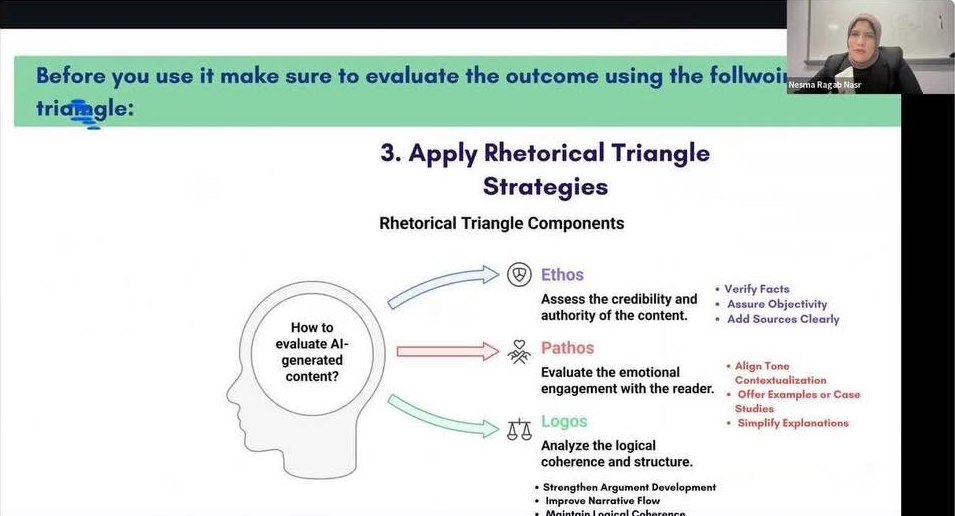
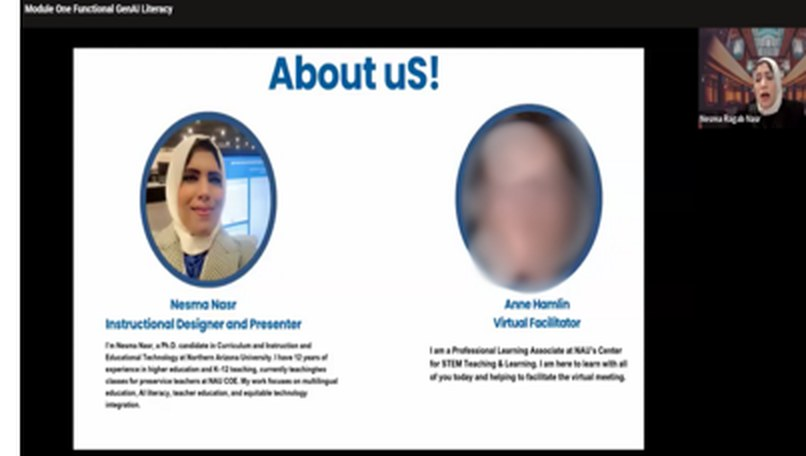
Replace workshop photos and list all workshops with full details
Claude-Session: https://claude.ai/code/session_01E94J13JhVndpWbtLHphchU

diff --git a/design.html b/design.html
@@ -12,7 +12,7 @@
   <link rel="preconnect" href="https://fonts.googleapis.com">
   <link rel="preconnect" href="https://fonts.gstatic.com" crossorigin>
   <link href="https://fonts.googleapis.com/css2?family=Atkinson+Hyperlegible:ital,wght@0,400;0,700;1,400&family=Newsreader:ital,opsz,wght@0,6..72,400;0,6..72,500;0,6..72,600;1,6..72,400&display=swap" rel="stylesheet">
-  <link rel="stylesheet" href="css/style.css?v=20261111d">
+  <link rel="stylesheet" href="css/style.css?v=20261111e">
 </head>
 <body>
   <a class="skip-link" href="#main">Skip to content</a>
@@ -74,8 +74,8 @@
         </ol>
         <!-- PHOTO SPACES: upload pictures with these exact file names. Empty spaces stay hidden. -->
         <div class="photo-row">
-          <figure class="photo"><img src="images/highlights/teachers-loop-2025-2.jpg" alt="Slide from a Teachers in the Loop, November 2025: generative AI and Vygotsky’s zone of proximal development" loading="lazy"><figcaption>Teachers in the Loop, November 2025: generative AI and Vygotsky’s zone of proximal development</figcaption></figure>
-          <figure class="photo"><img src="images/highlights/teachers-loop-2025-3.jpg" alt="Slide from a Teachers in the Loop, November 2025: five strategies for assessing learning with AI, ending with teacher oversight" loading="lazy"><figcaption>Teachers in the Loop, November 2025: five strategies for assessing learning with AI, ending with teacher oversight</figcaption></figure>
+          <figure class="photo"><img src="images/highlights/teachers-loop-2025-2.jpg" alt="Teachers in the Loop title slide. Workshop Two, November 5, 2025: Applying Critical Thinking and Effective Prompt Engineering for Ethical AI Use" loading="lazy"><figcaption>Workshop Two, November 5, 2025: Applying Critical Thinking and Effective Prompt Engineering for Ethical AI Use</figcaption></figure>
+          <figure class="photo"><img src="images/highlights/teachers-loop-2025-3.jpg" alt="Teachers in the Loop title slide. Workshop Three, November 12, 2025: Theory-Informed Teaching and Learning for Effective, Balanced Human–AI Classrooms" loading="lazy"><figcaption>Workshop Three, November 12, 2025: Theory-Informed Teaching and Learning for Effective, Balanced Human–AI Classrooms</figcaption></figure>
         </div>
         <!-- The video player below shows the whole YouTube playlist. -->
         <div class="video">
@@ -101,18 +101,25 @@
       </details>
 
       <details class="acc" id="workshops" data-reveal>
-        <summary><h2>Workshops and invited sessions</h2></summary>
+        <summary><h2>Workshops: designing and presenting</h2></summary>
         <div class="acc-body">
+        <h3>2026</h3>
         <ul class="pubs">
-          <li><em>AI for STEM education: AI as a collaborative partner, innovation, and subject of inquiry and critique.</em> IGNITE-STEM Co-Design Series, Tuba City Unified School District, Tuba City, AZ. October 2026. <a href="highlights.html#ignite-2026">Photos</a></li>
-          <li><em>From awareness to action: The universal bridge for critical and accessible AI implementation</em> (with Dolowitz, Berry, and Reese). AECT International Convention, Chicago, IL. November 2026. <a href="highlights.html#aect-2026">Photos</a></li>
-          <li><em>From passive users to critical thinkers: The practical inquiry cognitive presence framework for ethical AI use</em> (invited). Reimagining PedAIgogy Incubator Series, online. May 2026.</li>
-          <li><em>GenAI for enhancing lesson planning and language activities using rhetorical literacy.</em> AZTESOL Virtual Professional Development Series. December 2025.</li>
-          <li><em>Teachers in the Loop</em> four-session series. NAU STEM Department and AZTESOL, Flagstaff, AZ. October–November 2025. <a href="https://youtube.com/playlist?list=PLr469VyPQPz77XELISCDWrb53QFtSRKE9">Recordings</a></li>
-          <li><em>Think like a scientist: Critical thinking in the age of AI</em> (invited). BASIS Flagstaff, fourth-grade science. May 2025.</li>
-          <li><em>AI in the classroom: Tools and theories.</em> AECT Learner Engagement Division, online. May 2025.</li>
-          <li><em>Work smarter, not harder with AI literacy.</em> Lapan Forum, NAU College of Education. April 2025.</li>
-          <li>Student keynote speaker (invited by the Vice Provost for Global Affairs). 2024 Internationally Connected Faculty Reception, Northern Arizona University. September 24, 2024. <a href="highlights.html#keynote-2024">Photos</a></li>
+          <li><span class="me">Nasr, N. R.</span> (2026, October 17). <em>AI for STEM education: AI as a collaborative partner, innovation, and subject of inquiry and critique.</em> Workshop facilitator and presenter, IGNITE-STEM Co-Design Series, Tuba City Unified School District Gifted Education Program, Tuba City, Arizona. Funded by the National Science Foundation, FINDERS Foundry Planning Grant (Award #2627892; PI: Anne K. Hamlin; Co-PI: Sean M. Ryan), Northern Arizona University. <a href="highlights.html#ignite-2026">Photos</a></li>
+          <li>Dolowitz, A., Berry, C., <span class="me">Nasr, N. R.</span>, &amp; Reese, R. (2026, November 3). <em>From awareness to action: The universal bridge for critical and accessible AI implementation</em> [Workshop]. AECT International Convention, Chicago, IL. <a href="highlights.html#aect-2026">Photos</a></li>
+          <li><span class="me">Nasr, N. R.</span> (2026, May 12). <em>From passive users to critical thinkers: The Practical Inquiry cognitive presence framework for ethical AI use</em> [Invited presentation]. Reimagining PedAIgogy Incubator Series: Research, Policy &amp; Frameworks Show &amp; Share, virtual.</li>
+        </ul>
+        <h3 id="teachers-in-the-loop-list">2025: Teachers in the Loop series (educators in STEM, language education, and beyond)</h3>
+        <ul class="pubs">
+          <li><span class="me">Nasr, N. R.</span> (2025, December 17). <em>GenAI for enhancing lesson planning and language activities using rhetorical literacy</em> [Workshop]. AZTESOL Virtual Professional Development Series.</li>
+          <li><span class="me">Nasr, N. R.</span> (2025, October 29 – November 19). <em>Teachers in the Loop: GenAI literacy and education training series for educators. Empowering teachers’ AI literacy for ethical, responsible, and effective AI use</em> [Workshop series]. NAU STEM Department and AZTESOL, Flagstaff, AZ. <a href="highlights.html#teachers-loop-2025">Photos</a> · <a href="https://youtube.com/playlist?list=PLr469VyPQPz77XELISCDWrb53QFtSRKE9">Recordings</a></li>
+          <li><span class="me">Nasr, N. R.</span> (2025, October 29). <em>Identifying what generative AI is, its possibilities, and its limitations</em> [Workshop]. Teachers in the Loop Series, NAU STEM Department and AZTESOL.</li>
+          <li><span class="me">Nasr, N. R.</span> (2025, November 5). <em>Applying critical thinking and effective prompt engineering for ethical AI use: A practical workshop.</em> Teachers in the Loop Series, NAU STEM Department and AZTESOL.</li>
+          <li><span class="me">Nasr, N. R.</span> (2025, November 12). <em>Theory-informed teaching and learning for effective, balanced human–AI classrooms</em> [Workshop]. Teachers in the Loop Series, NAU STEM Department and AZTESOL.</li>
+          <li><span class="me">Nasr, N. R.</span> (2025, November 19). <em>Teaching effectively in AI-enhanced classrooms: Implementation, student guidance, inclusive support, and authentic assessment</em> [Workshop]. Teachers in the Loop Series, NAU STEM Department and AZTESOL.</li>
+          <li><span class="me">Nasr, N. R.</span> (2025, May 14). <em>Think like a scientist: Critical thinking in the age of AI</em> [Invited K–4 classroom workshop]. BASIS Flagstaff, 4th Grade Science Class, Flagstaff, AZ.</li>
+          <li><span class="me">Nasr, N. R.</span> (2025, May 8). <em>AI in the classroom: Tools and theories</em> [Workshop]. AECT Learner Engagement Division, virtual.</li>
+          <li><span class="me">Nasr, N. R.</span> (2025, April 5). <em>Work smarter, not harder with AI literacy</em> [Workshop]. Lapan Forum Conference, NAU College of Education, Flagstaff, AZ.</li>
         </ul>
       </div>
       </details>
@@ -129,7 +136,7 @@
       <span>Last updated November 2026</span>
     </div>
   </footer>
-  <script src="js/site.js?v=20261111d"></script>
-  <script src="js/assistant.js?v=20261111d"></script>
+  <script src="js/site.js?v=20261111e"></script>
+  <script src="js/assistant.js?v=20261111e"></script>
 </body>
 </html>

diff --git a/highlights.html b/highlights.html
@@ -12,7 +12,7 @@
   <link rel="preconnect" href="https://fonts.googleapis.com">
   <link rel="preconnect" href="https://fonts.gstatic.com" crossorigin>
   <link href="https://fonts.googleapis.com/css2?family=Atkinson+Hyperlegible:ital,wght@0,400;0,700;1,400&family=Newsreader:ital,opsz,wght@0,6..72,400;0,6..72,500;0,6..72,600;1,6..72,400&display=swap" rel="stylesheet">
-  <link rel="stylesheet" href="css/style.css?v=20261111d">
+  <link rel="stylesheet" href="css/style.css?v=20261111e">
 </head>
 <body>
   <a class="skip-link" href="#main">Skip to content</a>
@@ -235,7 +235,7 @@
             <figure class="photo"><img src="images/highlights/ignite-2026-2.jpg" alt="Educators at the IGNITE-STEM co-design workshop in Tuba City" loading="lazy"><figcaption>Educators at the IGNITE-STEM co-design workshop in Tuba City</figcaption></figure>
             <figure class="photo"><img src="images/highlights/ignite-2026-3.jpg" alt="Educators at the IGNITE-STEM co-design workshop in Tuba City" loading="lazy"><figcaption>Educators at the IGNITE-STEM co-design workshop in Tuba City</figcaption></figure>
           </div>
-          <time datetime="2026-10">October 2026, Tuba City, AZ</time>
+          <time datetime="2026-10-17">October 17, 2026, Tuba City, AZ</time>
           <h3>IGNITE-STEM co-design workshop</h3>
           <p>Led the AI for STEM Education workshop in the IGNITE-STEM co-design series with Tuba City Unified School District, funded by an NSF FINDERS Foundry planning grant. Educators and families told me the work approached AI with respect for their culture and traditions.</p>
           <p class="links"><a href="research.html#grants">About the grant</a><!-- To add a link: <a href="https://...">Link text</a> --></p>
@@ -284,10 +284,12 @@
         <h2 class="group-title">Workshops and teaching</h2>
         <article class="moment" id="teachers-loop-2025" data-reveal>
           <div class="moment-photos">
-            <figure class="photo"><img src="images/highlights/teachers-loop-2025-1.jpg" alt="Teachers in the Loop, November 2025: evaluating AI output with the rhetorical triangle" loading="lazy"><figcaption>Teachers in the Loop, November 2025: evaluating AI output with the rhetorical triangle</figcaption></figure>
-            <figure class="photo"><img src="images/highlights/teachers-loop-2025-2.jpg" alt="Teachers in the Loop, November 2025: generative AI and Vygotsky’s zone of proximal development" loading="lazy"><figcaption>Teachers in the Loop, November 2025: generative AI and Vygotsky’s zone of proximal development</figcaption></figure>
-            <figure class="photo"><img src="images/highlights/teachers-loop-2025-3.jpg" alt="Teachers in the Loop, November 2025: five strategies for assessing learning with AI, ending with teacher oversight" loading="lazy"><figcaption>Teachers in the Loop, November 2025: five strategies for assessing learning with AI, ending with teacher oversight</figcaption></figure>
-            <figure class="photo"><img src="images/highlights/teachers-loop-2025-4.jpg" alt="Nesma leading a Teachers in the Loop session" loading="lazy"><figcaption>Nesma leading a Teachers in the Loop session</figcaption></figure>
+            <figure class="photo"><img src="images/highlights/teachers-loop-2025-1.jpg" alt="Workshop One, October 29, 2025: functional GenAI literacy, introducing the presenter and facilitator" loading="lazy"><figcaption>Workshop One, October 29, 2025: functional GenAI literacy, introducing the presenter and facilitator</figcaption></figure>
+            <figure class="photo"><img src="images/highlights/teachers-loop-2025-2.jpg" alt="Workshop Two, November 5, 2025: Applying Critical Thinking and Effective Prompt Engineering for Ethical AI Use" loading="lazy"><figcaption>Workshop Two, November 5, 2025: Applying Critical Thinking and Effective Prompt Engineering for Ethical AI Use</figcaption></figure>
+            <figure class="photo"><img src="images/highlights/teachers-loop-2025-3.jpg" alt="Workshop Three, November 12, 2025: Theory-Informed Teaching and Learning for Effective, Balanced Human–AI Classrooms" loading="lazy"><figcaption>Workshop Three, November 12, 2025: Theory-Informed Teaching and Learning for Effective, Balanced Human–AI Classrooms</figcaption></figure>
+            <figure class="photo"><img src="images/highlights/teachers-loop-2025-4.jpg" alt="Workshop Four, November 19, 2025: Teaching Effectively in AI-Enhanced Classrooms" loading="lazy"><figcaption>Workshop Four, November 19, 2025: Teaching Effectively in AI-Enhanced Classrooms</figcaption></figure>
+            <figure class="photo"><img src="images/highlights/teachers-loop-2025-5.jpg" alt="Educators joining a Teachers in the Loop session on Zoom (participants blurred)" loading="lazy"><figcaption>Educators joining a Teachers in the Loop session on Zoom (participants blurred)</figcaption></figure>
+            <figure class="photo"><img src="images/highlights/teachers-loop-2025-6.jpg" alt="Workshop Four discussion: strategies for assessing student learning with AI" loading="lazy"><figcaption>Workshop Four discussion: strategies for assessing student learning with AI</figcaption></figure>
           </div>
           <time datetime="2025-10">October–November 2025</time>
           <h3>Teachers in the Loop series</h3>
@@ -357,7 +359,7 @@
       <span>Last updated November 2026</span>
     </div>
   </footer>
-  <script src="js/site.js?v=20261111d"></script>
-  <script src="js/assistant.js?v=20261111d"></script>
+  <script src="js/site.js?v=20261111e"></script>
+  <script src="js/assistant.js?v=20261111e"></script>
 </body>
 </html>

diff --git a/research.html b/research.html
@@ -12,7 +12,7 @@
   <link rel="preconnect" href="https://fonts.googleapis.com">
   <link rel="preconnect" href="https://fonts.gstatic.com" crossorigin>
   <link href="https://fonts.googleapis.com/css2?family=Atkinson+Hyperlegible:ital,wght@0,400;0,700;1,400&family=Newsreader:ital,opsz,wght@0,6..72,400;0,6..72,500;0,6..72,600;1,6..72,400&display=swap" rel="stylesheet">
-  <link rel="stylesheet" href="css/style.css?v=20261111d">
+  <link rel="stylesheet" href="css/style.css?v=20261111e">
 </head>
 <body>
   <a class="skip-link" href="#main">Skip to content</a>
@@ -284,7 +284,7 @@
         <p>My dissertation, <em>GenAI Literacy for Language Teachers for a More Responsible and Effective Use of the Technology: Testing, Experiences, and Reflections</em>, is a sequential mixed-methods study of the <em>Teachers in the Loop</em> training. I designed it the way an instructional designer designs workplace training: a baseline needs assessment, then ten microlearning videos, narrated modules, and an avatar-based facilitator for asynchronous, low-bandwidth delivery. Teachers improved significantly on all four literacy dimensions (<a href="https://doi.org/10.59668/2579.26754"><em>Journal of Applied Instructional Design</em></a>, 2026). A companion study examines teachers’ engagement with synthetic presenters.</p>
         <!-- PHOTO SPACES: upload pictures with these exact file names. Empty spaces stay hidden. -->
         <div class="photo-row">
-          <figure class="photo"><img src="images/highlights/teachers-loop-2025-1.jpg" alt="Slide from a Teachers in the Loop, November 2025: evaluating AI output with the rhetorical triangle" loading="lazy"><figcaption>Teachers in the Loop, November 2025: evaluating AI output with the rhetorical triangle</figcaption></figure>
+          <figure class="photo"><img src="images/highlights/teachers-loop-2025-1.jpg" alt="Teachers in the Loop title slide. Workshop One, October 29, 2025: functional GenAI literacy, introducing the presenter and facilitator" loading="lazy"><figcaption>Workshop One, October 29, 2025: functional GenAI literacy, introducing the presenter and facilitator</figcaption></figure>
           <figure class="photo"><img src="images/research/avatar-facilitator-1.jpg" alt="The avatar-based facilitator from the training modules" loading="lazy"><figcaption>The avatar-based facilitator</figcaption></figure>
         </div>
       </div>
@@ -354,7 +354,7 @@
       <span>Last updated November 2026</span>
     </div>
   </footer>
-  <script src="js/site.js?v=20261111d"></script>
-  <script src="js/assistant.js?v=20261111d"></script>
+  <script src="js/site.js?v=20261111e"></script>
+  <script src="js/assistant.js?v=20261111e"></script>
 </body>
 </html>

diff --git a/index.html b/index.html
@@ -12,7 +12,7 @@
   <link rel="preconnect" href="https://fonts.googleapis.com">
   <link rel="preconnect" href="https://fonts.gstatic.com" crossorigin>
   <link href="https://fonts.googleapis.com/css2?family=Atkinson+Hyperlegible:ital,wght@0,400;0,700;1,400&family=Newsreader:ital,opsz,wght@0,6..72,400;0,6..72,500;0,6..72,600;1,6..72,400&display=swap" rel="stylesheet">
-  <link rel="stylesheet" href="css/style.css?v=20261111d">
+  <link rel="stylesheet" href="css/style.css?v=20261111e">
 </head>
 <body>
   <a class="skip-link" href="#main">Skip to content</a>
@@ -385,7 +385,7 @@
       <span>Last updated November 2026</span>
     </div>
   </footer>
-  <script src="js/site.js?v=20261111d"></script>
-  <script src="js/assistant.js?v=20261111d"></script>
+  <script src="js/site.js?v=20261111e"></script>
+  <script src="js/assistant.js?v=20261111e"></script>
 </body>
 </html>

diff --git a/publications.html b/publications.html
@@ -12,7 +12,7 @@
   <link rel="preconnect" href="https://fonts.googleapis.com">
   <link rel="preconnect" href="https://fonts.gstatic.com" crossorigin>
   <link href="https://fonts.googleapis.com/css2?family=Atkinson+Hyperlegible:ital,wght@0,400;0,700;1,400&family=Newsreader:ital,opsz,wght@0,6..72,400;0,6..72,500;0,6..72,600;1,6..72,400&display=swap" rel="stylesheet">
-  <link rel="stylesheet" href="css/style.css?v=20261111d">
+  <link rel="stylesheet" href="css/style.css?v=20261111e">
 </head>
 <body>
   <a class="skip-link" href="#main">Skip to content</a>
@@ -153,7 +153,7 @@
       <span>Last updated November 2026</span>
     </div>
   </footer>
-  <script src="js/site.js?v=20261111d"></script>
-  <script src="js/assistant.js?v=20261111d"></script>
+  <script src="js/site.js?v=20261111e"></script>
+  <script src="js/assistant.js?v=20261111e"></script>
 </body>
 </html>

diff --git a/teaching.html b/teaching.html
@@ -12,7 +12,7 @@
   <link rel="preconnect" href="https://fonts.googleapis.com">
   <link rel="preconnect" href="https://fonts.gstatic.com" crossorigin>
   <link href="https://fonts.googleapis.com/css2?family=Atkinson+Hyperlegible:ital,wght@0,400;0,700;1,400&family=Newsreader:ital,opsz,wght@0,6..72,400;0,6..72,500;0,6..72,600;1,6..72,400&display=swap" rel="stylesheet">
-  <link rel="stylesheet" href="css/style.css?v=20261111d">
+  <link rel="stylesheet" href="css/style.css?v=20261111e">
 </head>
 <body>
   <a class="skip-link" href="#main">Skip to content</a>
@@ -137,7 +137,7 @@
       <span>Last updated November 2026</span>
     </div>
   </footer>
-  <script src="js/site.js?v=20261111d"></script>
-  <script src="js/assistant.js?v=20261111d"></script>
+  <script src="js/site.js?v=20261111e"></script>
+  <script src="js/assistant.js?v=20261111e"></script>
 </body>
 </html>

diff --git a/images/highlights/README.md b/images/highlights/README.md
@@ -57,6 +57,8 @@ Upload pictures here with these exact file names (lowercase, .jpg). A photo appe
 - `aiitec-1.jpg`: Highlights: American Indian/Indigenous Teacher Education Conference
 - `aiitec-2.jpg`: Highlights: American Indian/Indigenous Teacher Education Conference
 - `teachers-loop-2025-4.jpg`: Highlights: Teachers in the Loop series
+- `teachers-loop-2025-5.jpg`: Highlights: Teachers in the Loop series
+- `teachers-loop-2025-6.jpg`: Highlights: Teachers in the Loop series
 - `aztesol-2025-1.jpg`: Highlights: AZTESOL virtual professional development
 - `pedaigogy-2026-1.jpg`: Highlights: Reimagining PedAIgogy Incubator Series
 - `basis-2025-1.jpg`: Highlights: Think Like a Scientist, BASIS Flagstaff
